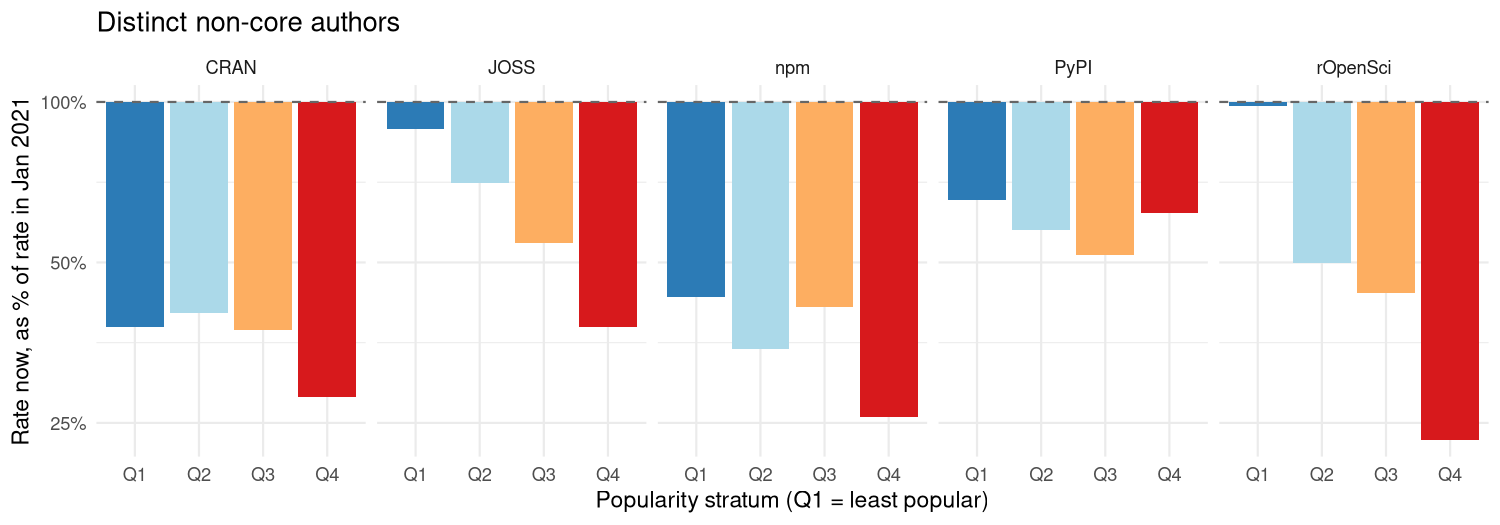
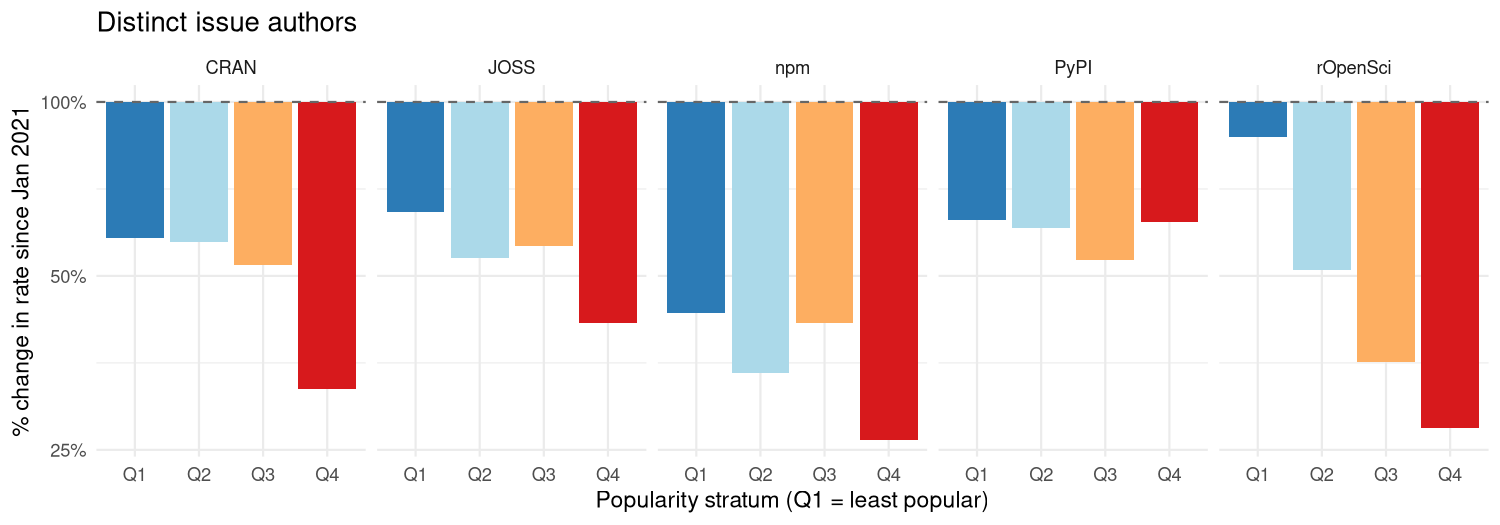
Deploying to gh-pages from @ mpadge/coding-alone@32a9b563d772dd2146079139c3710b25d6cedf80 🚀

diff --git a/articles/coding-alone.html b/articles/coding-alone.html
@@ -32,7 +32,7 @@
       </button>
       <span class="navbar-brand">
         <a class="navbar-link" href="../index.html">codingAlone</a>
-        <span class="version label label-default" data-toggle="tooltip" data-placement="bottom" title="">0.2.0.024</span>
+        <span class="version label label-default" data-toggle="tooltip" data-placement="bottom" title="">0.2.0.028</span>
       </span>
     </div>
 
@@ -182,7 +182,7 @@ impact of any of the results or conclusions drawn.</p>
 alongside the main analysis.</p>
 </div>
 <div class="section level2">
-<h2 id="finding-1-people-are-still-coding">Finding #1: People are still coding<a class="anchor" aria-label="anchor" href="#finding-1-people-are-still-coding"></a>
+<h2 id="finding-1-people-are-coding-less">Finding #1: People are coding less<a class="anchor" aria-label="anchor" href="#finding-1-people-are-coding-less"></a>
 </h2>
 <p>The most direct measures of coding activity are the creation of new
 repositories, and numbers of commits in each. Time series of these two
@@ -193,21 +193,28 @@ many of the results shown below only show time series from the January
 2021 onwards. Comparisons are also made as “step changes” between
 January 2021 and the present (Sep 2026)</p>
 <div class="figure" style="text-align: center">
-<img src="coding-alone-figures/commit-rate-plot-1.png" alt="Rates of creation of new repos (top panel, as relative monthly percentages) and of commits per month (bottom). All rates are 12-month trailing averages."><p class="caption">
-Rates of creation of new repos (top panel, as relative monthly
+<img src="coding-alone-figures/commit-rate-plot-1.png" alt="Fig. 1: Rates of creation of new repos (top panel, as relative monthly percentages) and of commits per month (bottom). All rates are 12-month trailing averages."><p class="caption">
+Fig. 1: Rates of creation of new repos (top panel, as relative monthly
 percentages) and of commits per month (bottom). All rates are 12-month
 trailing averages.
 </p>
 </div>
-<p>The following table of percentage change in both rates from Jan 2021
-shows that rates of new repository creations have dropped consistently.
-(Respository creation for both JOSS and rOpenSci generally only occurs
-following rigorous review processes, and so values for these two can’t
-really be directly compared with the other sources, and are likely
-affected by additional constraints and influences.) Repository
-maintenance, measured in terms of numbers of commits, has also generally
-decreased (with the notable extreme outlier of rOpenSci), although by
-relatively little for the two dominant systems of npm and PyPI.</p>
+<p>The decrease in repository creation could of course simply reflect
+people moving away from GitHub and towards alternative code hosting
+sites. Such effects are not considered further here, but all analyses
+that follow are derived from existing GitHub repositories, and are
+independent of whether or not people are abandoning GitHub for
+alternative sites. The rates of monthly commits of Fig. 1 are an
+example. All of these rates generally decline, although also at lower
+rates than equivalent declines in rates of repository creation. These
+declines in commit rates are genuine declines observed among those
+people still active on GitHub.</p>
+<p>These relative differences are quantified in the following table of
+percentage change in both rates from Jan 2021. (Repository creation for
+both JOSS and rOpenSci generally only occurs following rigorous review
+processes, and so values for these two can’t really be directly compared
+with the other sources, and are likely affected by additional
+constraints and influences.)</p>
 <table class="table">
 <caption>Percentage change in repo-creation rate and commit rate,
 estimated from linear regressions fitted from Jan 2021.</caption>
@@ -220,27 +227,27 @@ estimated from linear regressions fitted from Jan 2021.</caption>
 <tr class="odd">
 <td align="left">JOSS</td>
 <td align="right">-73%</td>
-<td align="right">-54%</td>
+<td align="right">-52%</td>
 </tr>
 <tr class="even">
 <td align="left">CRAN</td>
 <td align="right">-38%</td>
-<td align="right">-54%</td>
-</tr>
-<tr class="odd">
-<td align="left">npm</td>
-<td align="right">-55%</td>
-<td align="right">-12%</td>
-</tr>
-<tr class="even">
-<td align="left">PyPI</td>
-<td align="right">-29%</td>
-<td align="right">-8%</td>
+<td align="right">-51%</td>
 </tr>
 <tr class="odd">
 <td align="left">rOpenSci</td>
 <td align="right">-78%</td>
-<td align="right">-4%</td>
+<td align="right">-43%</td>
+</tr>
+<tr class="even">
+<td align="left">npm</td>
+<td align="right">-55%</td>
+<td align="right">-12%</td>
+</tr>
+<tr class="odd">
+<td align="left">PyPI</td>
+<td align="right">-29%</td>
+<td align="right">-11%</td>
 </tr>
 </tbody>
 </table>
@@ -256,19 +263,24 @@ issues. Anybody (with an account) can open an issue to ask a simple
 question. Many who do may not necessarily end up directly contributing
 to code at all, and so data on issues offers more inclusive insights
 into larger communities beyond direct code contributors.</p>
+<p>The following graph shows numbers of unique people opening new issues
+on repositories for the five software ecosystems. All counts are
+standardised to numbers of new issues per repository. All of these
+patterns reveal consistent changes either side of around 2020. From here
+on, all times series start from Jan 2021, with patterns prior to that
+date generally reflecting those shown in Fig 2.</p>
 <div class="figure" style="text-align: center">
-<img src="coding-alone-figures/trend-plots-1.png" alt="plot of chunk trend-plots"><p class="caption">
-plot of chunk trend-plots
+<img src="coding-alone-figures/trend-plots-1.png" alt="Fig 2: Numbers of distinct authors opening new issues"><p class="caption">
+Fig 2: Numbers of distinct authors opening new issues
 </p>
 </div>
-<p>The shape is the same one the companion vignette found in issue
-counts: a rise or plateau through the late 2010s, a peak somewhere in
-the 2017–2020 window, and an ongoing decline since. That resemblance
-alone doesn’t prove much - a falling issue rate is mechanically
-compatible with a falling author count, since fewer issues can’t come
-from more people without each of them opening fewer on average. What
-settles it is comparing the two step-changes directly, source by source
-and stratum by stratum:</p>
+<p>For each software source, lines are shown for the four distributional
+quartiles described above. “Q4” represents the relatively few extremely
+popular packages, while “Q1” is the quartile of lowest popularity. (And
+these quartiles are defined on a logarithmic scale, so there are far
+more packages in Q1 than in Q4.)</p>
+<p>The most severe recent declines (since 2021) have been for the most
+popular packages across all system.</p>
 <div class="figure" style="text-align: center">
 <img src="coding-alone-figures/step-change-plot-authors-1.png" alt="plot of chunk step-change-plot-authors"><p class="caption">
 plot of chunk step-change-plot-authors
@@ -279,12 +291,12 @@ its January-2021 level - 20 out of 20, with no exceptions. That includes
 rOpenSci’s least-popular quartile, the one cell in the companion
 vignette’s event-count figure that rose rather than fell: counted by
 issues, it reached 124% of its 2021 rate; counted by distinct authors,
-the same cell manages only 98% - essentially flat, not growth. Whatever
+the same cell manages only 87% - essentially flat, not growth. Whatever
 rOpenSci’s peer-review process is doing for its most obscure packages,
 it isn’t attracting a widening circle of new people; at best, on this
 measure, it’s holding the existing circle from shrinking.</p>
 <p>Beyond that one cell, the two measures mostly move together, but not
-identically: in 15 of the 20 cells, the distinct-author count has fallen
+identically: in 10 of the 20 cells, the distinct-author count has fallen
 by <em>more</em> than the issue count has, meaning the average non-core
 author isn’t opening noticeably more issues to compensate for fewer of
 them showing up - if anything, the opposite.</p>
@@ -306,7 +318,7 @@ plot of chunk new-author-rate-plot
 </div>
 <p>The new-arrival rate has fallen in 20 of 20 (source, stratum) cells
 since January 2021 - the same near-universal decline Finding 1 found in
-overall density. In 17 of those 20 cells, the new-arrival rate has
+overall density. In 15 of those 20 cells, the new-arrival rate has
 fallen by <em>more</em> than overall density has, meaning the decline
 documented above isn’t simply existing regulars posting a little less
 often; it’s disproportionately a shrinking supply of people showing up
@@ -480,33 +492,33 @@ popular quartile</caption>
 <tbody>
 <tr class="odd">
 <td align="left">rOpenSci</td>
-<td align="right">98%</td>
-<td align="right">23%</td>
-<td align="right">-75%</td>
+<td align="right">87%</td>
+<td align="right">27%</td>
+<td align="right">-60%</td>
 </tr>
 <tr class="even">
-<td align="left">JOSS</td>
-<td align="right">89%</td>
-<td align="right">38%</td>
-<td align="right">-51%</td>
+<td align="left">CRAN</td>
+<td align="right">58%</td>
+<td align="right">32%</td>
+<td align="right">-26%</td>
 </tr>
 <tr class="odd">
+<td align="left">JOSS</td>
+<td align="right">65%</td>
+<td align="right">41%</td>
+<td align="right">-23%</td>
+</tr>
+<tr class="even">
 <td align="left">npm</td>
 <td align="right">43%</td>
 <td align="right">26%</td>
 <td align="right">-17%</td>
 </tr>
-<tr class="even">
-<td align="left">CRAN</td>
-<td align="right">38%</td>
-<td align="right">28%</td>
-<td align="right">-10%</td>
-</tr>
 <tr class="odd">
 <td align="left">PyPI</td>
-<td align="right">66%</td>
+<td align="right">63%</td>
 <td align="right">62%</td>
-<td align="right">-4%</td>
+<td align="right">0%</td>
 </tr>
 </tbody>
 </table>
@@ -612,7 +624,7 @@ grew over the same period: 21,548 primary-source repositories exist in
 this dataset now, against 13,043 that already existed by January 2021 -
 a 1.7x increase. Raw, unnormalised monthly non-core author counts across
 all five sources combined have fallen only to about 75% of their
-January-2021 level, well short of the roughly 43% median seen per
+January-2021 level, well short of the roughly 53% median seen per
 repository. More repositories now compete for a shrinking amount of
 attention per repository - the total pool of people engaging with open
 source hasn’t collapsed nearly as sharply as any individual project’s

diff --git a/reference/plot_activity.html b/reference/plot_activity.html
@@ -19,7 +19,7 @@ over time, one line per popularity stratum."><!-- mathjax --><script src="https:
       </button>
       <span class="navbar-brand">
         <a class="navbar-link" href="../index.html">codingAlone</a>
-        <span class="version label label-default" data-toggle="tooltip" data-placement="bottom" title="">0.2.0.024</span>
+        <span class="version label label-default" data-toggle="tooltip" data-placement="bottom" title="">0.2.0.028</span>
       </span>
     </div>
 
@@ -70,7 +70,7 @@ over time, one line per popularity stratum.</p>
     </div>
 
     <div id="ref-usage">
-    <div class="sourceCode"><pre class="sourceCode r"><code><span><span class="fu">plot_activity</span><span class="op">(</span><span class="va">rate_tbl</span>, start_year <span class="op">=</span> <span class="cn">NULL</span><span class="op">)</span></span></code></pre></div>
+    <div class="sourceCode"><pre class="sourceCode r"><code><span><span class="fu">plot_activity</span><span class="op">(</span><span class="va">rate_tbl</span>, src_name <span class="op">=</span> <span class="cn">NULL</span>, start_year <span class="op">=</span> <span class="cn">NULL</span><span class="op">)</span></span></code></pre></div>
     </div>
 
     <div id="arguments">
@@ -83,6 +83,11 @@ over time, one line per popularity stratum.</p>
 straight off it, the first three to label the y-axis and <code>source_name</code>
 to annotate the plot panel directly (top-right corner), rather than
 needing to be passed in again.</p></dd>
+
+
+<dt id="arg-src-name">src_name<a class="anchor" aria-label="anchor" href="#arg-src-name"></a></dt>
+<dd><p>Name of source of <code>rate_tbl</code> to be added as plot annotation
+if specified.</p></dd>
 
 
 <dt id="arg-start-year">start_year<a class="anchor" aria-label="anchor" href="#arg-start-year"></a></dt>

diff --git a/authors.html b/authors.html
@@ -17,7 +17,7 @@
       </button>
       <span class="navbar-brand">
         <a class="navbar-link" href="index.html">codingAlone</a>
-        <span class="version label label-default" data-toggle="tooltip" data-placement="bottom" title="">0.2.0.024</span>
+        <span class="version label label-default" data-toggle="tooltip" data-placement="bottom" title="">0.2.0.028</span>
       </span>
     </div>
 
@@ -76,13 +76,13 @@
 
     <p>Padgham M (2026).
 <em>codingAlone: The Effect of Peer Review on Open-Source Community Engagement</em>.
-R package version 0.2.0.024, <a href="https://github.com/mpadge/coding-alone" class="external-link">https://github.com/mpadge/coding-alone</a>.
+R package version 0.2.0.028, <a href="https://github.com/mpadge/coding-alone" class="external-link">https://github.com/mpadge/coding-alone</a>.
 </p>
     <pre>@Manual{,
   title = {codingAlone: The Effect of Peer Review on Open-Source Community Engagement},
   author = {Mark Padgham},
   year = {2026},
-  note = {R package version 0.2.0.024},
+  note = {R package version 0.2.0.028},
   url = {https://github.com/mpadge/coding-alone},
 }</pre>
 

diff --git a/reference/SOURCE_DISPLAY_NAME.html b/reference/SOURCE_DISPLAY_NAME.html
@@ -21,7 +21,7 @@ abbreviation, so it's left as-is."><!-- mathjax --><script src="https://cdnjs.cl
       </button>
       <span class="navbar-brand">
         <a class="navbar-link" href="../index.html">codingAlone</a>
-        <span class="version label label-default" data-toggle="tooltip" data-placement="bottom" title="">0.2.0.024</span>
+        <span class="version label label-default" data-toggle="tooltip" data-placement="bottom" title="">0.2.0.028</span>
       </span>
     </div>
 

diff --git a/reference/author_density_step_change_tbl.html b/reference/author_density_step_change_tbl.html
@@ -19,7 +19,7 @@ at a fixed reference month against its most recent value."><!-- mathjax --><scri
       </button>
       <span class="navbar-brand">
         <a class="navbar-link" href="../index.html">codingAlone</a>
-        <span class="version label label-default" data-toggle="tooltip" data-placement="bottom" title="">0.2.0.024</span>
+        <span class="version label label-default" data-toggle="tooltip" data-placement="bottom" title="">0.2.0.028</span>
       </span>
     </div>
 

diff --git a/reference/author_density_tbl.html b/reference/author_density_tbl.html
@@ -18,7 +18,7 @@ calendar month."><!-- mathjax --><script src="https://cdnjs.cloudflare.com/ajax/
       </button>
       <span class="navbar-brand">
         <a class="navbar-link" href="../index.html">codingAlone</a>
-        <span class="version label label-default" data-toggle="tooltip" data-placement="bottom" title="">0.2.0.024</span>
+        <span class="version label label-default" data-toggle="tooltip" data-placement="bottom" title="">0.2.0.028</span>
       </span>
     </div>
 

diff --git a/reference/author_interval_tbl.html b/reference/author_interval_tbl.html
@@ -32,7 +32,7 @@ author so far simply contributes no interval, rather than a zero."><!-- mathjax 
       </button>
       <span class="navbar-brand">
         <a class="navbar-link" href="../index.html">codingAlone</a>
-        <span class="version label label-default" data-toggle="tooltip" data-placement="bottom" title="">0.2.0.024</span>
+        <span class="version label label-default" data-toggle="tooltip" data-placement="bottom" title="">0.2.0.028</span>
       </span>
     </div>
 

diff --git a/reference/author_interval_trend_tbl.html b/reference/author_interval_trend_tbl.html
@@ -27,7 +27,7 @@ mean rather than just pulling it down."><!-- mathjax --><script src="https://cdn
       </button>
       <span class="navbar-brand">
         <a class="navbar-link" href="../index.html">codingAlone</a>
-        <span class="version label label-default" data-toggle="tooltip" data-placement="bottom" title="">0.2.0.024</span>
+        <span class="version label label-default" data-toggle="tooltip" data-placement="bottom" title="">0.2.0.028</span>
       </span>
     </div>
 

diff --git a/reference/build_repo_tbl.html b/reference/build_repo_tbl.html
@@ -19,7 +19,7 @@ download/star metrics."><!-- mathjax --><script src="https://cdnjs.cloudflare.co
       </button>
       <span class="navbar-brand">
         <a class="navbar-link" href="../index.html">codingAlone</a>
-        <span class="version label label-default" data-toggle="tooltip" data-placement="bottom" title="">0.2.0.024</span>
+        <span class="version label label-default" data-toggle="tooltip" data-placement="bottom" title="">0.2.0.028</span>
       </span>
     </div>
 

diff --git a/reference/build_runiv_table.html b/reference/build_runiv_table.html
@@ -18,7 +18,7 @@ package currently published in a given r-universe."><!-- mathjax --><script src=
       </button>
       <span class="navbar-brand">
         <a class="navbar-link" href="../index.html">codingAlone</a>
-        <span class="version label label-default" data-toggle="tooltip" data-placement="bottom" title="">0.2.0.024</span>
+        <span class="version label label-default" data-toggle="tooltip" data-placement="bottom" title="">0.2.0.028</span>
       </span>
     </div>
 

diff --git a/reference/build_working_sample.html b/reference/build_working_sample.html
@@ -20,7 +20,7 @@ tail_size packages from the remaining long tail."><!-- mathjax --><script src="h
       </button>
       <span class="navbar-brand">
         <a class="navbar-link" href="../index.html">codingAlone</a>
-        <span class="version label label-default" data-toggle="tooltip" data-placement="bottom" title="">0.2.0.024</span>
+        <span class="version label label-default" data-toggle="tooltip" data-placement="bottom" title="">0.2.0.028</span>
       </span>
     </div>
 

diff --git a/reference/cohort_age_rate_tbl.html b/reference/cohort_age_rate_tbl.html
@@ -25,7 +25,7 @@ fixed-age rate as cohort year increases."><!-- mathjax --><script src="https://c
       </button>
       <span class="navbar-brand">
         <a class="navbar-link" href="../index.html">codingAlone</a>
-        <span class="version label label-default" data-toggle="tooltip" data-placement="bottom" title="">0.2.0.024</span>
+        <span class="version label label-default" data-toggle="tooltip" data-placement="bottom" title="">0.2.0.028</span>
       </span>
     </div>
 
